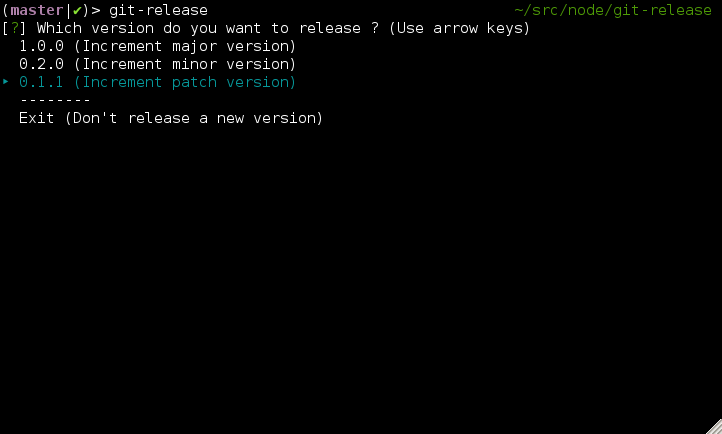
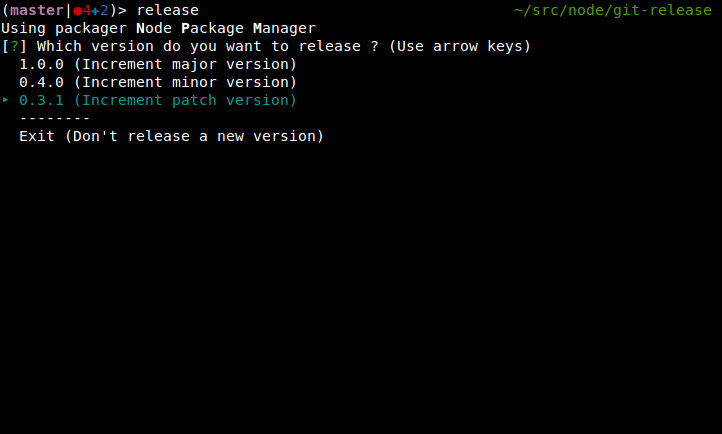
Rename git-release to release
Mainly to avoid conflit with TJ's git-release
https://github.com/visionmedia/git-extras/blob/master/bin/git-release

diff --git a/README.md b/README.md
@@ -1,4 +1,4 @@
-# git-release
+# release
 
 > Release a new version of your Git project
 
@@ -15,7 +15,7 @@ npm install -g git-release
 ## Usage
 
 ```shell
-git-release
+release
 ```
 
 By default, this will
@@ -27,17 +27,17 @@ By default, this will
 You can also increment the minor version (ex: from 1.2.0 to 1.3.0)
 
 ```shell
-git-release minor
+release minor
 ```
 
 Or the major version  (ex: from 1.2.0 to 2.0.0)
 
 ```shell
-git-release major
+release major
 ```
 
 Or force a specific version
 
 ```shell
-git-release 1.3.0-alpha
+release 1.3.0-alpha
 ```
